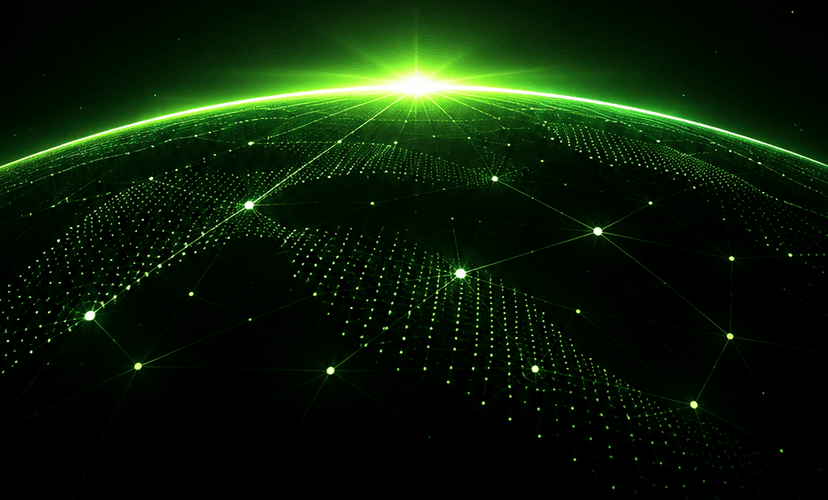
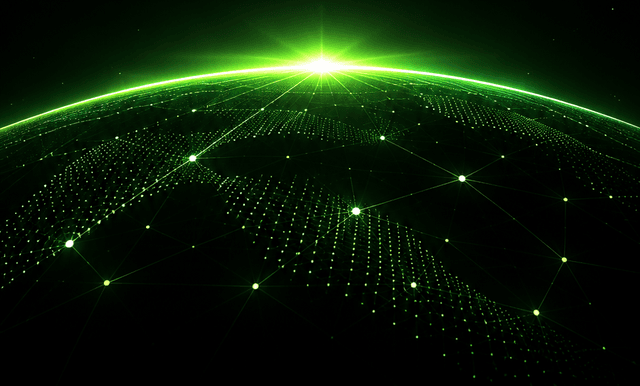
Lighthouse: lighter mobile hero image (#21)
The mobile horizon (the phone LCP image) is emitted at 640px instead of
828px: 25 KB to 17 KB of AVIF for a soft, masked glow. Its width and height
attributes now match the image's real ratio.

Verified: bun run check (27 pass); 412px render at DPR 1.75 checked.

Agent: omp / anthropic claude-opus-5-5

diff --git a/src/index.html b/src/index.html
@@ -43,7 +43,7 @@
 <source media="(min-width: 48rem)" srcset="%ART:horizon-d.webp%" type="image/webp">
 <source srcset="%ART:horizon-m.avif%" type="image/avif">
 <source srcset="%ART:horizon-m.webp%" type="image/webp">
-<img src="%ART:horizon-m.png%" width="828" height="486" alt="" decoding="async">
+<img src="%ART:horizon-m.png%" width="640" height="386" alt="" decoding="async">
 </picture>
 <div class="wrap-x hero-grid">
 <div class="hero-art">
@@ -280,7 +280,7 @@
 <source media="(min-width: 48rem)" srcset="%ART:horizon-d.webp%" type="image/webp">
 <source srcset="%ART:horizon-m.avif%" type="image/avif">
 <source srcset="%ART:horizon-m.webp%" type="image/webp">
-<img src="%ART:horizon-m.png%" width="828" height="486" alt="" loading="lazy" decoding="async">
+<img src="%ART:horizon-m.png%" width="640" height="386" alt="" loading="lazy" decoding="async">
 </picture>
 <div class="wrap-x relative z-10">
 <header class="sec-head reveal">

diff --git a/scripts/assets.ts b/scripts/assets.ts
@@ -55,7 +55,8 @@ await emit("arc-hero", sharp(arcBox.data).extend({ top: pad, bottom: pad, left: 
 const poster = sharp(src("poster-hex-576x1024.png"));
 const pm = await poster.metadata();
 const top = Math.round(pm.height! * 0.66);
-await emit("horizon-m", sharp(src("poster-hex-576x1024.png")).extract({ left: 0, top, width: pm.width!, height: pm.height! - top }).resize({ width: 828 }));
+// 640px wide: the mobile LCP image, a soft masked glow behind the hero, needs no more.
+await emit("horizon-m", sharp(src("poster-hex-576x1024.png")).extract({ left: 0, top, width: pm.width!, height: pm.height! - top }).resize({ width: 640 }));
 const bm = await sharp(src("banner-hex-3x1.png")).metadata();
 const btop = Math.round(bm.height! * 0.55);
 await emit("horizon-d", sharp(src("banner-hex-3x1.png")).extract({ left: 0, top: btop, width: bm.width!, height: bm.height! - btop }).resize({ width: 2048 }));

diff --git a/src/dashboard.html b/src/dashboard.html
@@ -68,7 +68,7 @@
 <source media="(min-width: 48rem)" srcset="%ART:horizon-d.webp%" type="image/webp">
 <source srcset="%ART:horizon-m.avif%" type="image/avif">
 <source srcset="%ART:horizon-m.webp%" type="image/webp">
-<img src="%ART:horizon-m.png%" width="828" height="486" alt="" decoding="async">
+<img src="%ART:horizon-m.png%" width="640" height="386" alt="" decoding="async">
 </picture>
 <p class="dash-eyebrow">The open frontier</p>
 <h1 id="dash-h">Open infrastructure for collective frontier intelligence.</h1>
